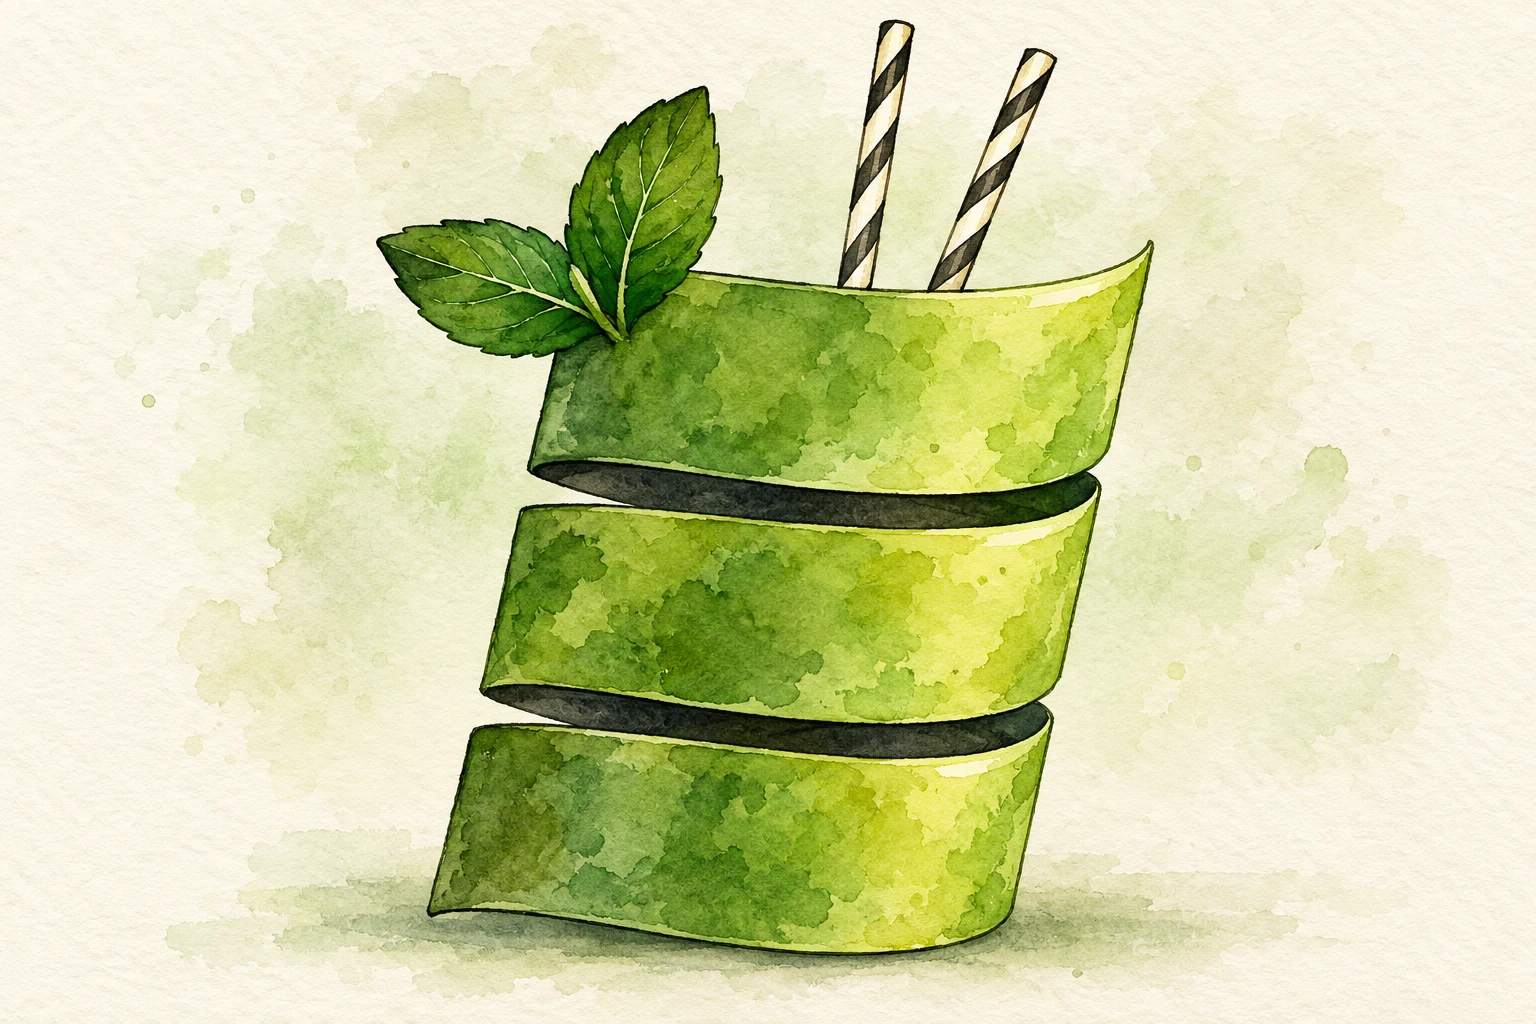
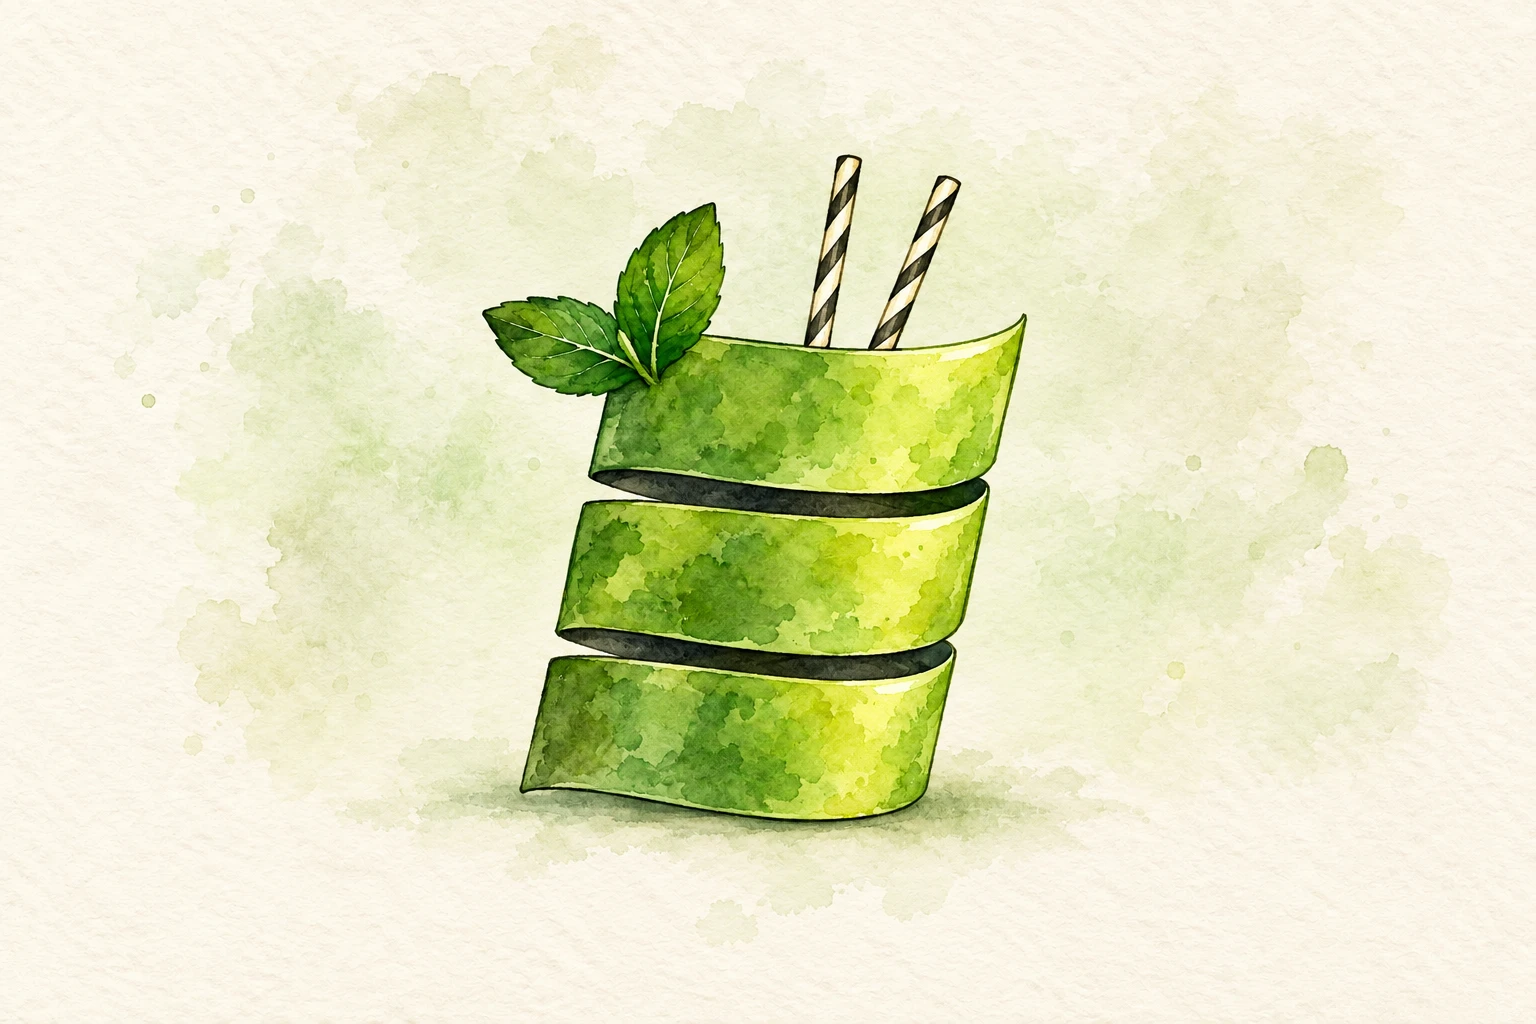
Update hero

Changed region(s): [[0.0938, 0.0, 0.8438, 1.0]]

diff --git a/content/blog/2026/2026-10-03-the-road-to-smockito-3.md b/content/blog/2026/2026-10-03-the-road-to-smockito-3.md
@@ -26,7 +26,7 @@ assert(paymentService.times(it.charge) == 1)
 This exact code still holds in the recently released third major version of Smockito, but some things have changed in the way.
 
 ![](./smockito-watercolor.webp)
-*Another take at the Smockito logo, by our robot friends. But I still very much like the simplicity of the original by my friend [Nuno Costa](https://github.com/biromiro). He handled my "Mockito but merged with the Scala logo" quite well.*
+*Another take at the Smockito logo, by our robot friends. But I still very much like the simplicity of the original by my friend [Nuno Costa](https://github.com/biromiro). He handled my "Mockito but merged with the Scala logo" request quite well.*
 
 ## First pains
 
